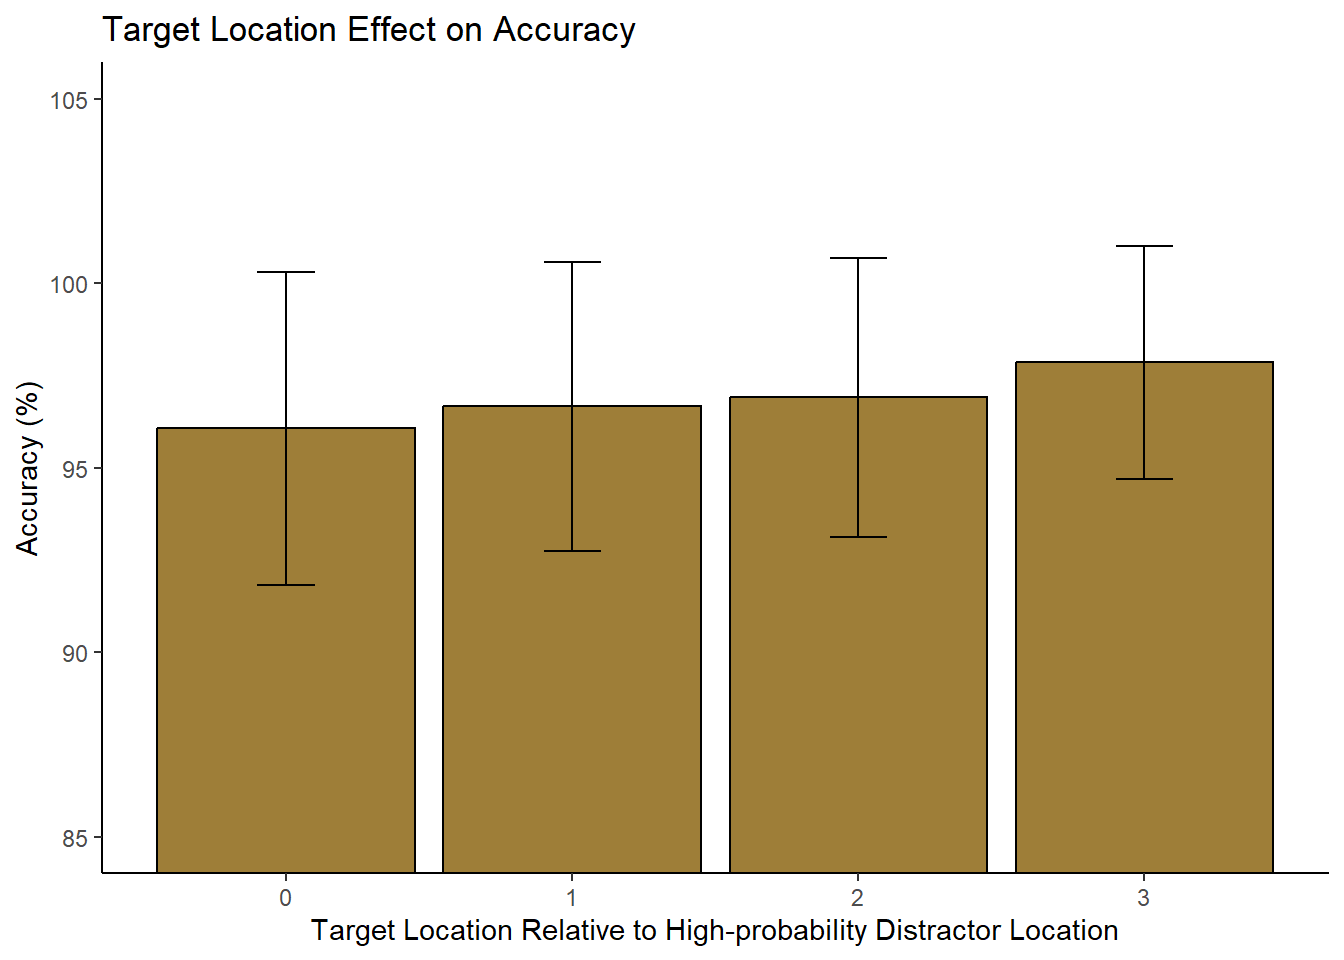
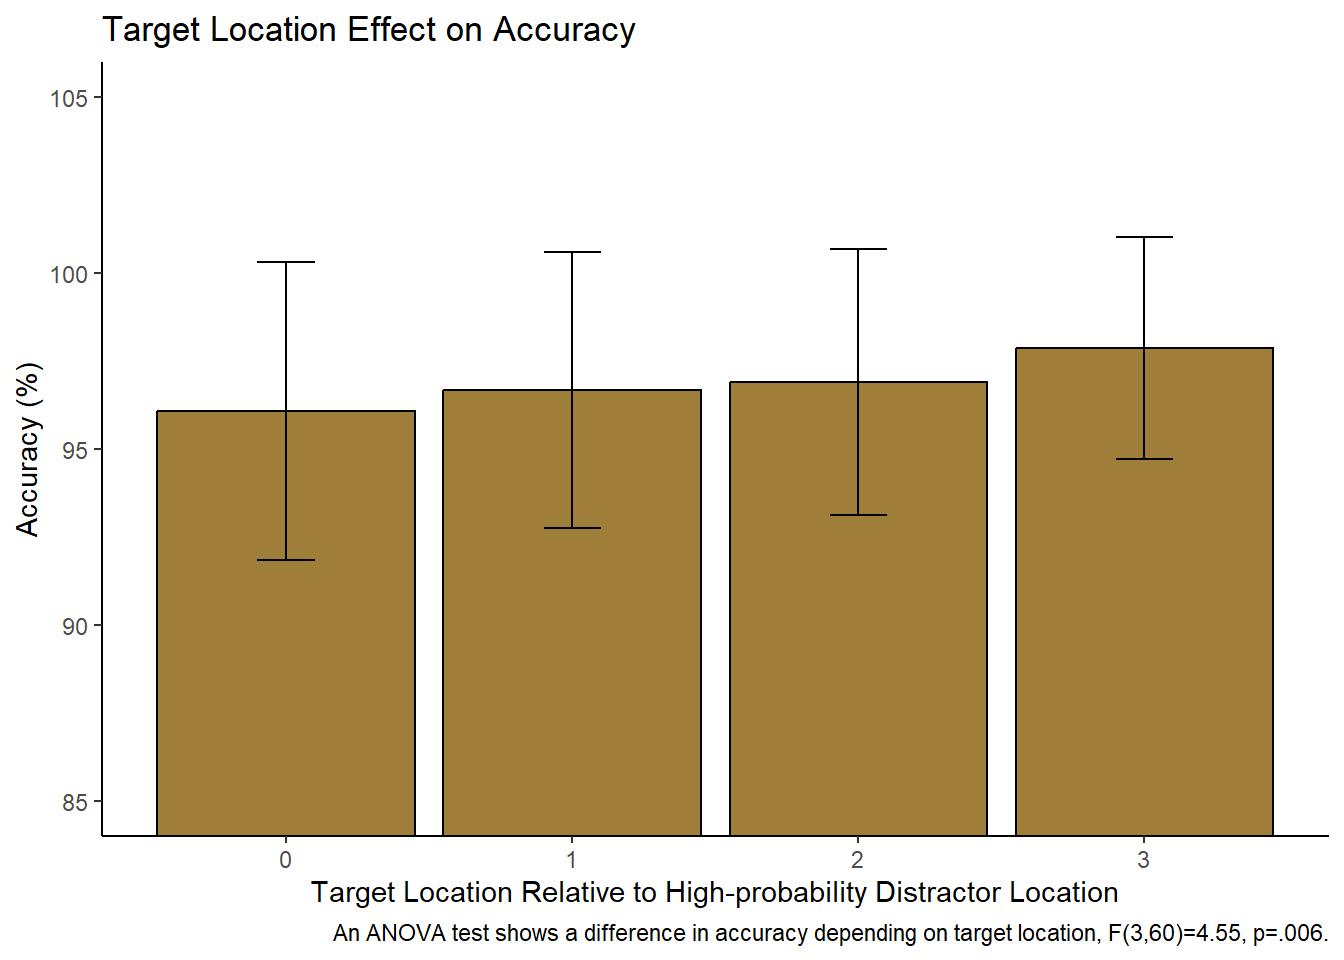
Portfolio 2 almost complete
just need to add commentary

diff --git a/docs/p02.html b/docs/p02.html
@@ -400,7 +400,7 @@ scheme.</p>
   theme_classic()+
   labs(x = &quot;Target Location Relative to High-probability Distractor Location&quot;, y = &quot;Response Time (ms)&quot;)+
   labs(title = &quot;Target Location Effect on RT&quot;)+
-  labs(caption = &quot;An ANOVA test shows a difference in RT depending on target location, F(1.74,34.86)=12.925, p&lt;.001.&quot;)</code></pre>
+  labs(caption = &quot;An ANOVA test shows a difference in RT depending on target location, F(3,60)=12.93, p&lt;.001.&quot;)</code></pre>
 <p><img src="p02_files/figure-html/-%20graph%201%20-%20distractor%20location%20effect%20on%20rt-1.png" width="672" /></p>
 <p>Create a new data frame with the average RT for each relative
 distractor location per participant, so we can do a repeated measures
@@ -466,6 +466,24 @@ get_anova_table(res.aov)</code></pre>
 ## 
 ##            Effect  DFn   DFd      F        p p&lt;.05   ges
 ## 1 relative_target 1.74 34.86 12.925 0.000119     * 0.024</code></pre>
+<p>I ran the ANOVA using base R as well because the rstatix package was
+giving me errors when running for accuracy data later on. The rstatix
+packages has a lot of requests and hasn’t been updated in years so I
+switched to a different route to get the same results.</p>
+<pre class="r"><code>model = aov(rts~factor(relative_target)+
+                Error(factor(ID)), data=space)
+summary(model)</code></pre>
+<pre><code>## 
+## Error: factor(ID)
+##           Df  Sum Sq Mean Sq F value Pr(&gt;F)
+## Residuals 20 1394027   69701               
+## 
+## Error: Within
+##                         Df Sum Sq Mean Sq F value   Pr(&gt;F)    
+## factor(relative_target)  3  36392   12131   12.93 1.28e-06 ***
+## Residuals               60  56311     939                     
+## ---
+## Signif. codes:  0 &#39;***&#39; 0.001 &#39;**&#39; 0.01 &#39;*&#39; 0.05 &#39;.&#39; 0.1 &#39; &#39; 1</code></pre>
 </div>
 <div id="distractor-and-target-location-effects-on-accuracy"
 class="section level3">
@@ -494,7 +512,8 @@ pilot_targacc &lt;- pilot %&gt;%
   coord_cartesian(ylim = c(85,105))+
   theme_classic()+
   labs(x = &quot;Distractor Location Relative to High-probability Distractor Location&quot;, y = &quot;Accuracy (%)&quot;)+
-  labs(title = &quot;Distractor Location Effect on Accuracy&quot;)</code></pre>
+  labs(title = &quot;Distractor Location Effect on Accuracy&quot;)+
+  labs(caption = &quot;An ANOVA test shows a difference in accuracy depending on distractor location, F(4,80)=3.24, p=.016.&quot;)</code></pre>
 <p><img src="p02_files/figure-html/-%20graph%20distractor%20location%20effects%20on%20accuracy-1.png" width="672" /></p>
 <pre class="r"><code>ggplot(data = pilot_targacc, aes(x = relative_target, y = accuracy)) +
   geom_bar(stat = &quot;identity&quot;, fill=&quot;#9E7E38&quot;, color=&#39;#000000&#39;) +
@@ -502,8 +521,81 @@ pilot_targacc &lt;- pilot %&gt;%
   coord_cartesian(ylim = c(85,105))+
   theme_classic()+
   labs(x = &quot;Target Location Relative to High-probability Distractor Location&quot;, y = &quot;Accuracy (%)&quot;)+
-  labs(title = &quot;Target Location Effect on Accuracy&quot;)</code></pre>
+  labs(title = &quot;Target Location Effect on Accuracy&quot;)+
+  labs(caption = &quot;An ANOVA test shows a difference in accuracy depending on target location, F(3,60)=4.55, p=.006.&quot;)</code></pre>
 <p><img src="p02_files/figure-html/-%20graph%20target%20location%20effects%20on%20accuracy-1.png" width="672" /></p>
+<pre class="r"><code>pilot_dist &lt;- pilot %&gt;%
+  group_by(ID, relative_hp_dist) %&gt;%
+  summarize(accuracy = mean(acc)
+            )</code></pre>
+<pre><code>## `summarise()` has grouped output by &#39;ID&#39;. You can override using the `.groups`
+## argument.</code></pre>
+<pre class="r"><code>pilot_dist</code></pre>
+<pre><code>## # A tibble: 105 × 3
+## # Groups:   ID [21]
+##       ID relative_hp_dist accuracy
+##    &lt;dbl&gt; &lt;chr&gt;               &lt;dbl&gt;
+##  1    11 dist_0               94.4
+##  2    11 dist_1               93.8
+##  3    11 dist_2               90.6
+##  4    11 dist_3               93.8
+##  5    11 no_dist              97.9
+##  6    12 dist_0               98.1
+##  7    12 dist_1               93.8
+##  8    12 dist_2               96.9
+##  9    12 dist_3              100  
+## 10    12 no_dist              99.6
+## # … with 95 more rows</code></pre>
+<pre class="r"><code>pilot_targ &lt;- pilot %&gt;%
+  group_by(ID, relative_target) %&gt;%
+  summarize(accuracy = mean(acc)
+            )</code></pre>
+<pre><code>## `summarise()` has grouped output by &#39;ID&#39;. You can override using the `.groups`
+## argument.</code></pre>
+<pre class="r"><code>pilot_targ</code></pre>
+<pre><code>## # A tibble: 84 × 3
+## # Groups:   ID [21]
+##       ID relative_target accuracy
+##    &lt;dbl&gt;           &lt;dbl&gt;    &lt;dbl&gt;
+##  1    11               0     91.2
+##  2    11               1     96.2
+##  3    11               2     96.2
+##  4    11               3     98.8
+##  5    12               0     97.5
+##  6    12               1     98.8
+##  7    12               2     98.1
+##  8    12               3    100  
+##  9    13               0    100  
+## 10    13               1     99.4
+## # … with 74 more rows</code></pre>
+<pre class="r"><code>model = aov(accuracy~factor(relative_hp_dist)+
+                Error(factor(ID)), data=pilot_dist)
+summary(model)</code></pre>
+<pre><code>## 
+## Error: factor(ID)
+##           Df Sum Sq Mean Sq F value Pr(&gt;F)
+## Residuals 20   1096   54.82               
+## 
+## Error: Within
+##                          Df Sum Sq Mean Sq F value Pr(&gt;F)  
+## factor(relative_hp_dist)  4  227.6   56.91   3.235 0.0163 *
+## Residuals                80 1407.3   17.59                 
+## ---
+## Signif. codes:  0 &#39;***&#39; 0.001 &#39;**&#39; 0.01 &#39;*&#39; 0.05 &#39;.&#39; 0.1 &#39; &#39; 1</code></pre>
+<pre class="r"><code>model = aov(accuracy~factor(relative_target)+
+                Error(factor(ID)), data=pilot_targ)
+summary(model)</code></pre>
+<pre><code>## 
+## Error: factor(ID)
+##           Df Sum Sq Mean Sq F value Pr(&gt;F)
+## Residuals 20  288.3   14.41               
+## 
+## Error: Within
+##                         Df Sum Sq Mean Sq F value  Pr(&gt;F)   
+## factor(relative_target)  3  34.75  11.582   4.549 0.00614 **
+## Residuals               60 152.75   2.546                   
+## ---
+## Signif. codes:  0 &#39;***&#39; 0.001 &#39;**&#39; 0.01 &#39;*&#39; 0.05 &#39;.&#39; 0.1 &#39; &#39; 1</code></pre>
 </div>
 
 
